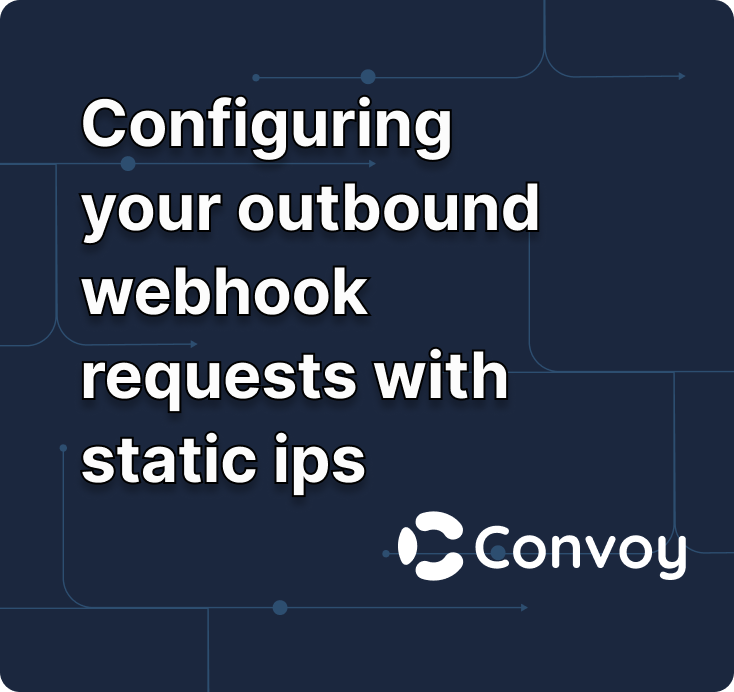
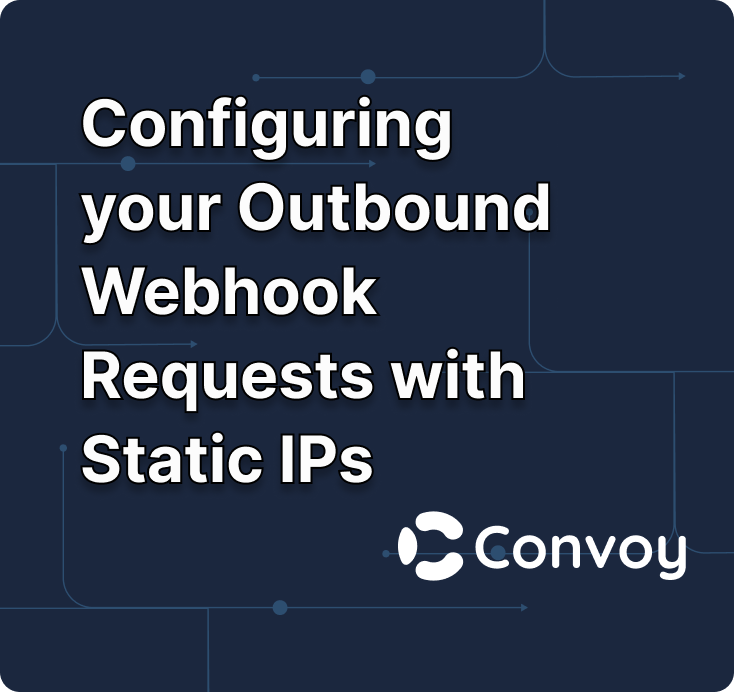
fix: fixed title

Changed region(s): [[0.0899, 0.4855, 0.7193, 0.7283], [0.0899, 0.3642, 0.5095, 0.4552], [0.2997, 0.2428, 0.7493, 0.3338]]

diff --git a/content/blog/configuring-your-outbound-webhook-requests-with-static-ips.md b/content/blog/configuring-your-outbound-webhook-requests-with-static-ips.md
@@ -1,5 +1,5 @@
 ---
-title: Configuring your outbound webhook requests with static ips
+title: Configuring your Outbound Webhook Requests with Static IPs
 feature_image: static-ips-with-convoy.png
 post_image: static-ips-with-convoy.png
 primary_author:
